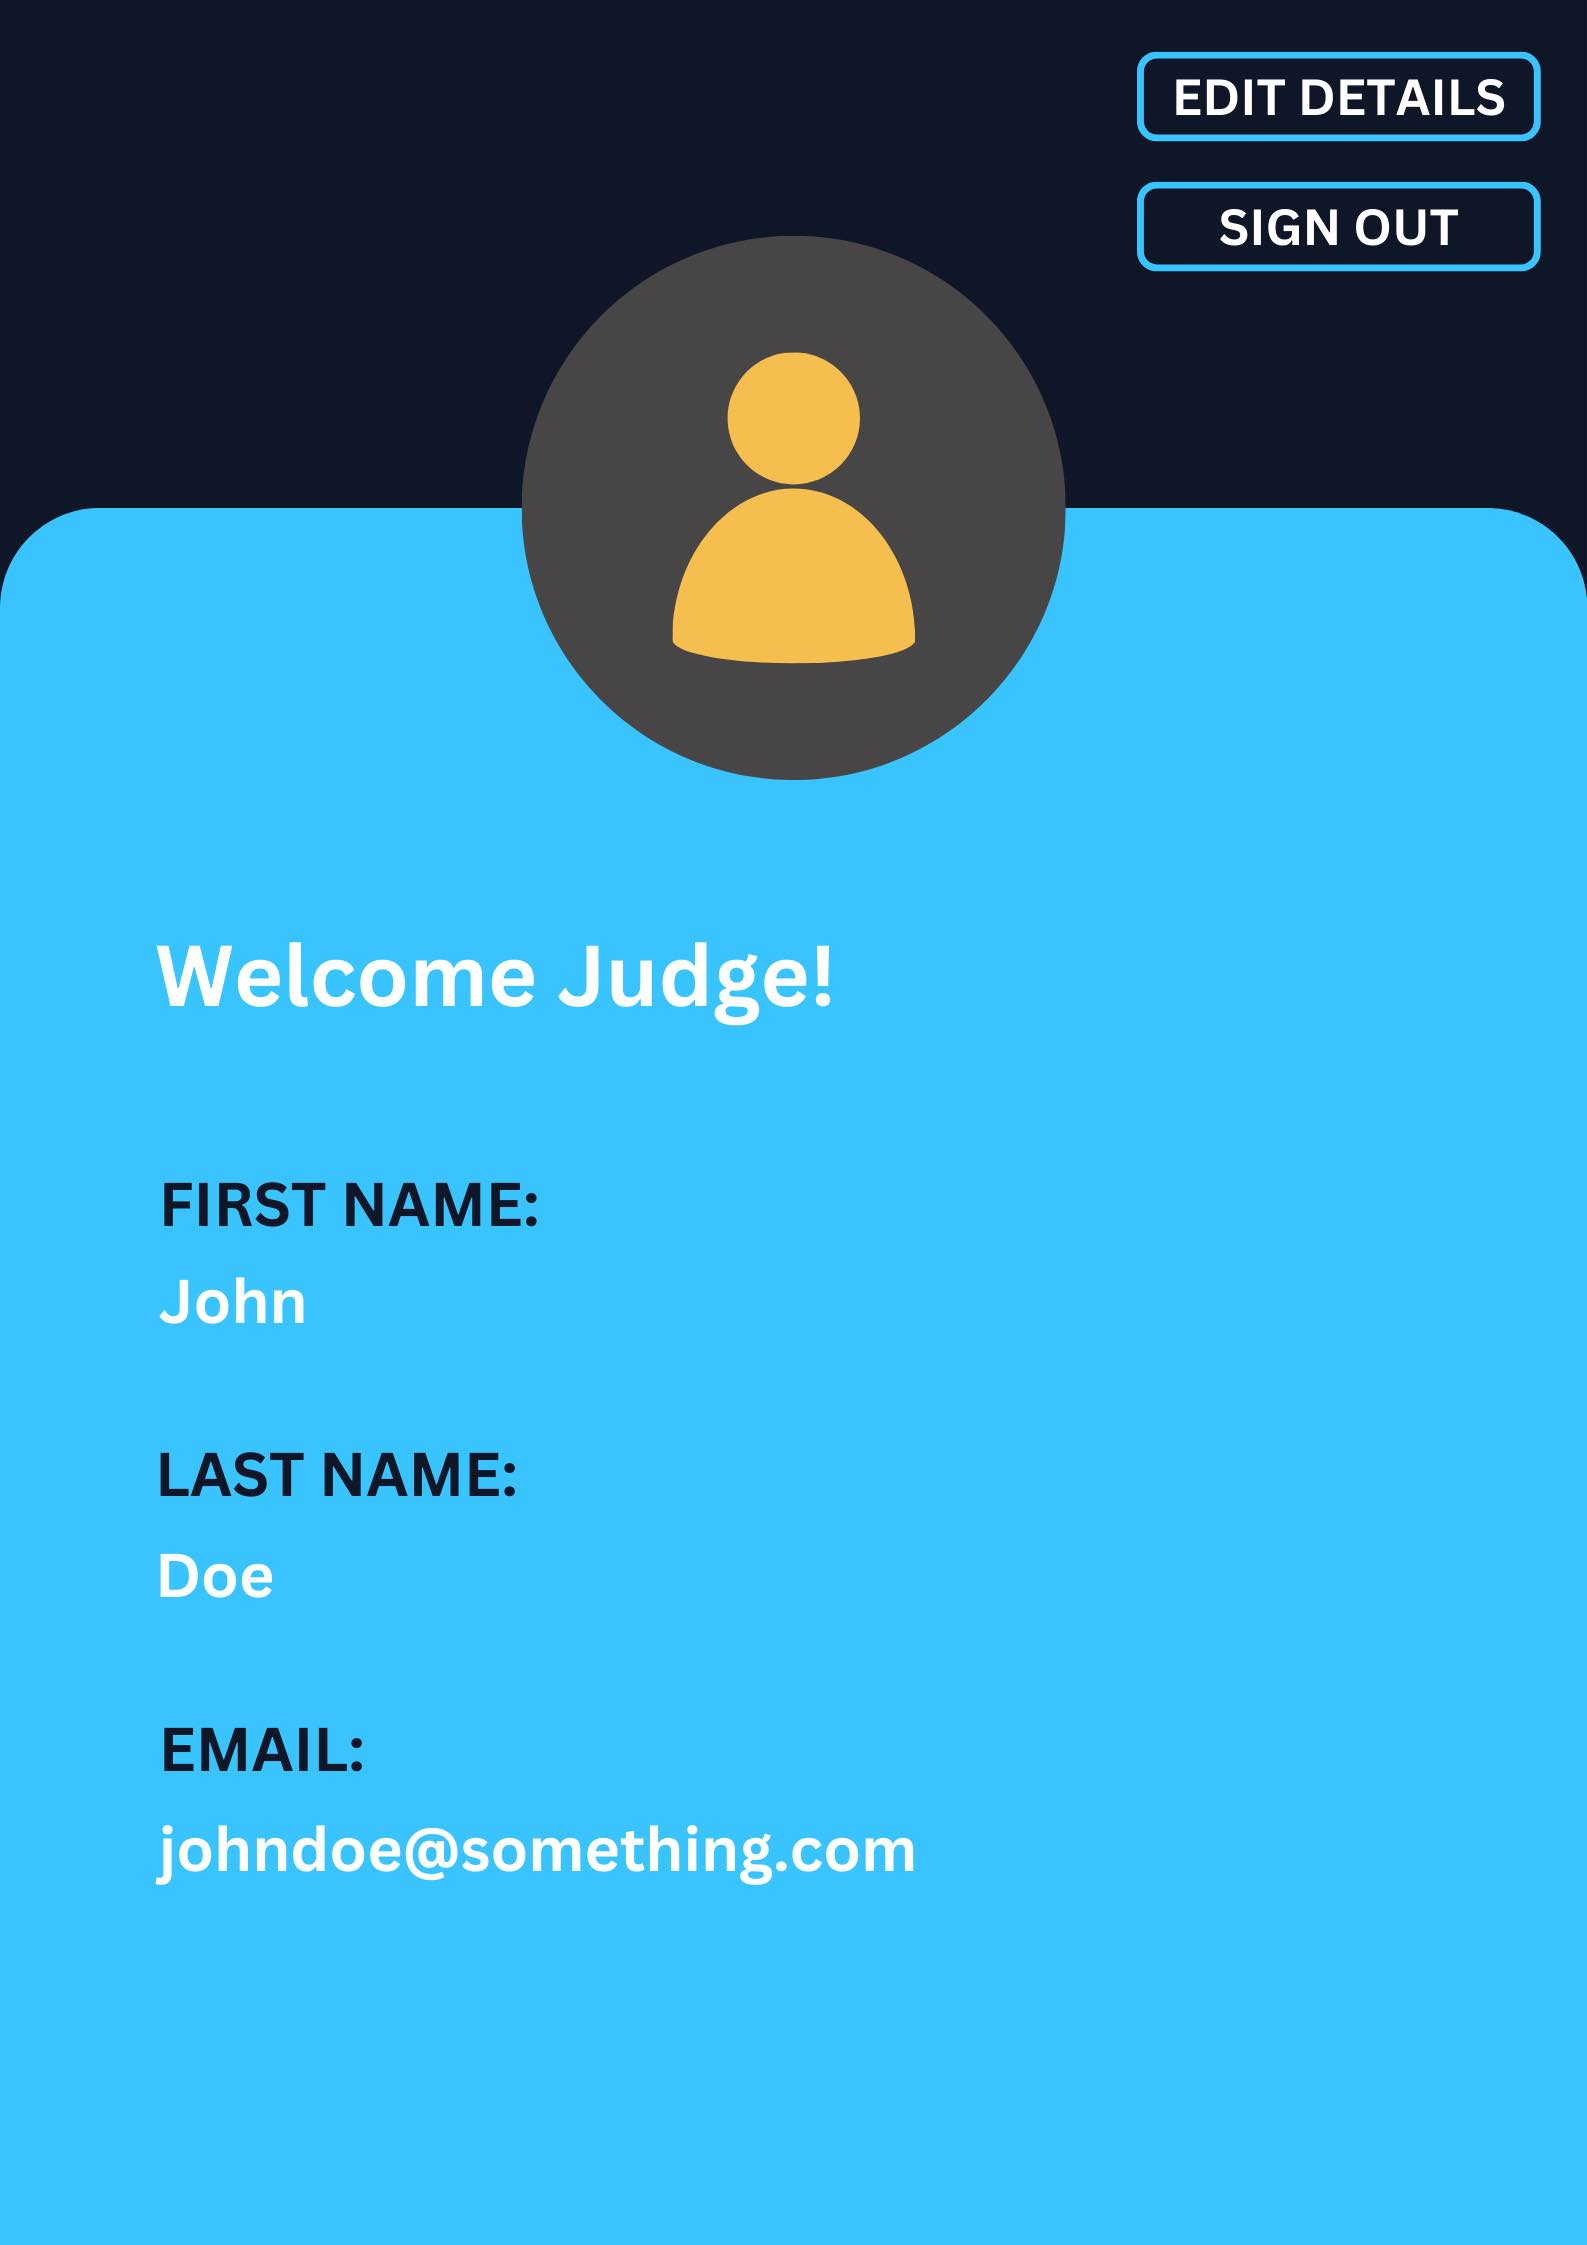
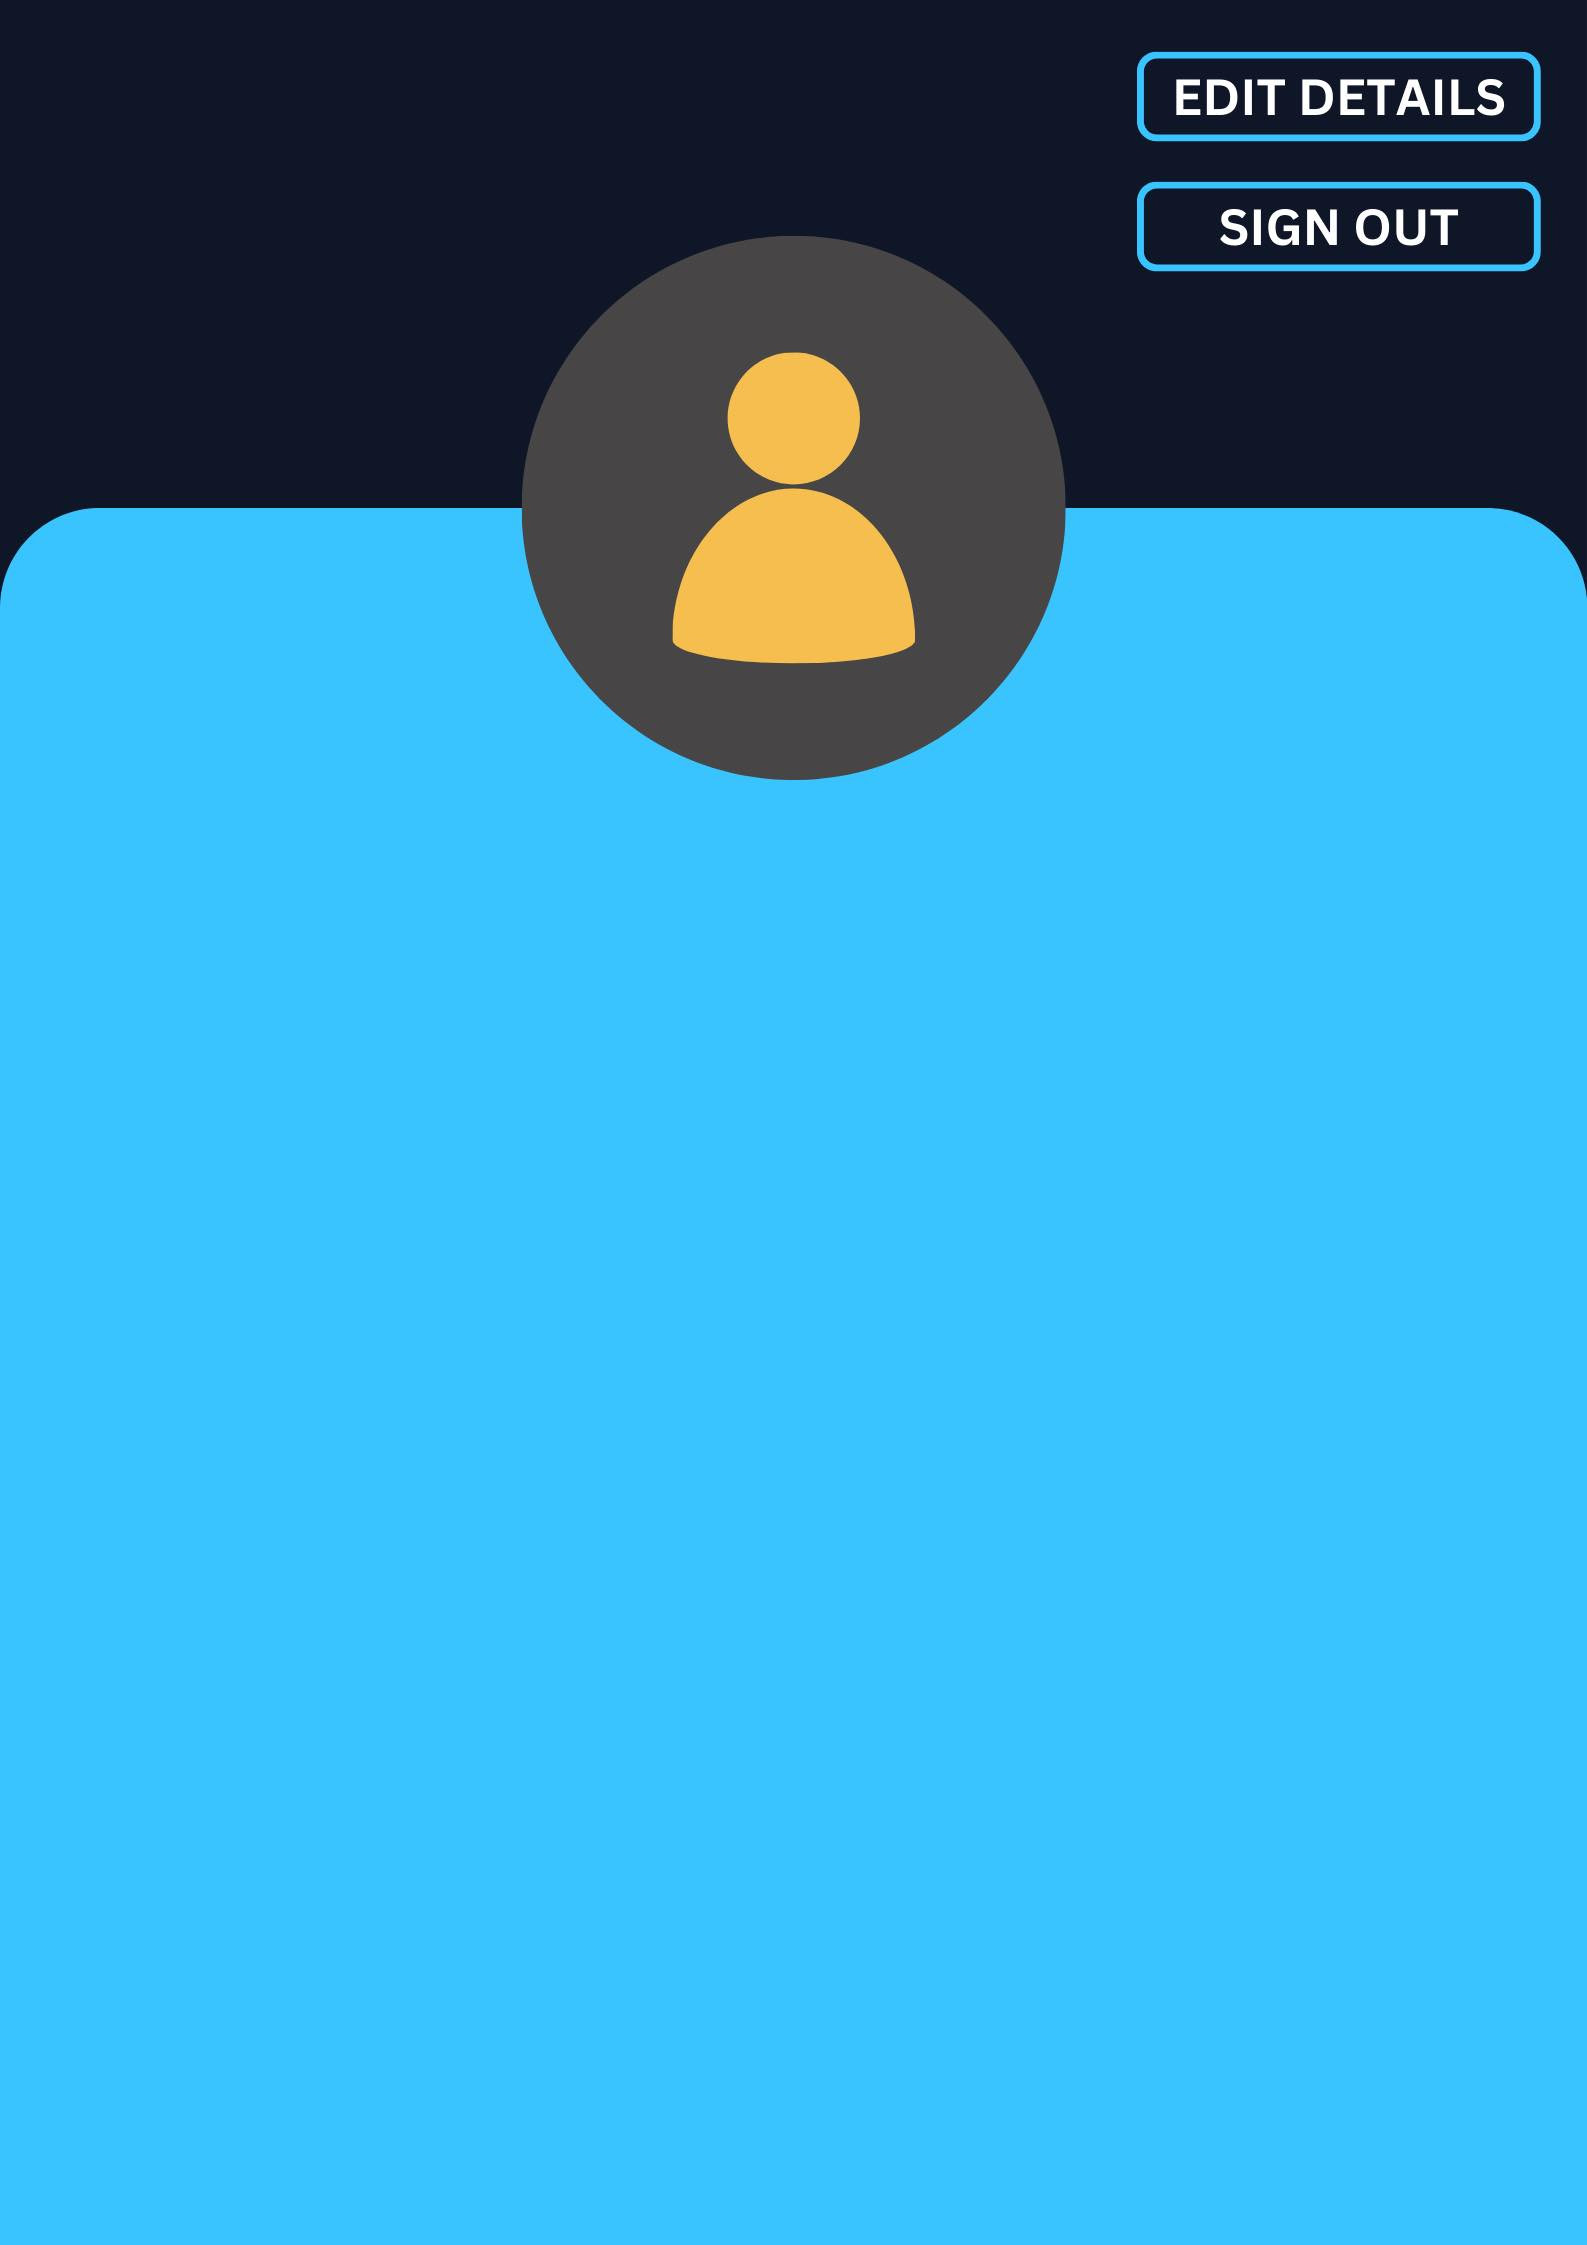
profile cleanup

diff --git a/lib/profile_tab.dart b/lib/profile_tab.dart
@@ -27,18 +27,21 @@ class _ProfilePageState extends State<ProfilePage> {
         ),
       ),
       child: Padding(
-        padding: const EdgeInsets.all(8.0),
+        padding: const EdgeInsets.only(
+          left: 40.0,
+          right: 40.0,
+          bottom: 40.0,
+          top: 200.0,
+        ),
         child: Column(
+          mainAxisAlignment: MainAxisAlignment.spaceEvenly,
           crossAxisAlignment: CrossAxisAlignment.start,
           children: [
             Text(
                 (profile.memberType == Member.Spectator)
                     ? 'Welcome Viewer!'
                     : 'Welcome Judge!',
-                style: TextStyle(
-                  color: Colors.white,
-                  fontSize: 20.0,
-                )),
+                style: kTextBodyHeader),
             SizedBox(
               height: 10.0,
             ),
@@ -67,34 +70,92 @@ class _ProfilePageState extends State<ProfilePage> {
               children: [
                 Row(
                   children: [
-                    Icon(Icons.star), // Replace with your desired icon
+                    Image.asset(
+                      'assets/icons/points.png',
+                      width: 50.0,
+                      height: 50.0,
+                    ), // Replace with your desired icon
                     SizedBox(
                         width:
                             8.0), // Adjust the spacing between the icon and the text
                     Text(
                       '${profile.coins}', // Convert the int variable to a String using string interpolation
-                      style: TextStyle(fontSize: 16.0, color: Colors.white),
+                      style: kText,
                     ),
                   ],
                 ),
                 ElevatedButton(
-                  onPressed: (() => {}),
-                  child: ElevatedButton(
-                    style: ButtonStyle(
-                      backgroundColor: MaterialStateProperty.resolveWith(
-                          (states) => Colors.white),
-                    ),
-                    onPressed: () {},
-                    child: const Text(
-                      'View Bids',
-                      style: TextStyle(
-                        color: kPrimaryColor,
+                  style: ButtonStyle(
+                    backgroundColor: MaterialStateProperty.resolveWith(
+                        (states) => Colors.white),
+                    padding: MaterialStateProperty.resolveWith(
+                      (states) => EdgeInsets.all(
+                        10.0,
                       ),
+                    ),
+                  ),
+                  onPressed: () {},
+                  child: Row(
+                    children: [
+                      Image.asset(
+                        'assets/icons/bids.png',
+                        width: 50.0,
+                        height: 50.0,
+                      ),
+                      const Text(
+                        'View Bids',
+                        style: TextStyle(
+                          color: kPrimaryColor,
+                        ),
+                      ),
+                    ],
+                  ),
+                ),
+              ],
+            ),
+            SizedBox(
+              height: 10.0,
+            ),
+            Row(
+              children: [
+                ElevatedButton(
+                  style: ButtonStyle(
+                    backgroundColor: MaterialStateProperty.resolveWith(
+                        (states) => Colors.white),
+                    padding: MaterialStateProperty.resolveWith(
+                      (states) => EdgeInsets.all(
+                        10.0,
+                      ),
+                    ),
+                  ),
+                  onPressed: () {},
+                  child: const Text(
+                    'View Bids',
+                    style: TextStyle(
+                      color: kPrimaryColor,
+                    ),
+                  ),
+                ),
+                ElevatedButton(
+                  style: ButtonStyle(
+                    backgroundColor: MaterialStateProperty.resolveWith(
+                        (states) => Colors.white),
+                    padding: MaterialStateProperty.resolveWith(
+                      (states) => EdgeInsets.all(
+                        10.0,
+                      ),
+                    ),
+                  ),
+                  onPressed: () {},
+                  child: const Text(
+                    'View Bids',
+                    style: TextStyle(
+                      color: kPrimaryColor,
                     ),
                   ),
                 ),
               ],
-            )
+            ),
           ],
         ),
       ),
